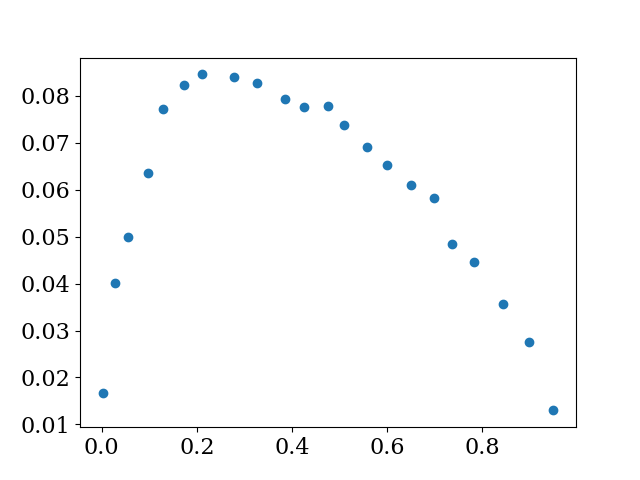
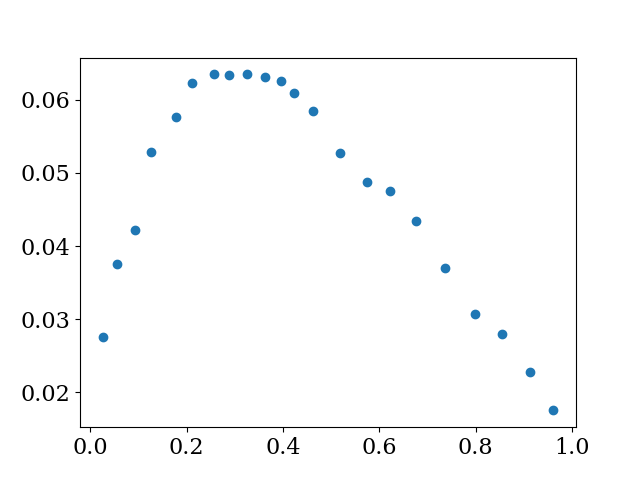
blended wing profiles

diff --git a/main_airfoil.py b/main_airfoil.py
@@ -499,28 +499,35 @@ def plot_airfoil_slope(x, a, y, alpha, x_exp, z_exp):
     return 0
 
 
-def plot_airfoil_slope_experimental(x_exp, z_exp, x_a, alpha, ):
+def plot_airfoil_slope_experimental(x_exp, z_exp, x_a, alpha, x_exp_2, z_exp_2, x_a_2, alpha_2):
     """
-    Generates plot of slope and alpha across an airfoil
+    Generates plot of slope and alpha across an airfoil, two profiles for blended wing
     :param x_exp:
     :param z_exp:
     :param x_a:
     :param alpha:
     :return:
     """
+    blended_wing = True
     # get perfect airfoil points from equation directly
     m1 = float(NACA_number[:1])
     p1 = float(NACA_number[1:2])
     th1 = float(NACA_number[2:4])
     x_values, z_values = get_airfoil_from_NACA_values(m=m1, p=p1, th=th1, c=1)
     z_values = z_values[:1000] # cut z values down to only 1000
+    # Get 0018 airfoil
+    x_values_0018, z_values_0018 = get_airfoil_from_NACA_values(m=0, p=0, th=18, c=1)
+    z_values_0018 = z_values_0018[:1000]  # cut z values down to only 1000
     # Plot to compare to experimental results
     fig, (ax1, ax2, ax3) = plt.subplots(3, 1)
     fig.set_figheight(9)
     fig.set_figwidth(9)
     # FIRST ROW PLOT use data set on angles in /data/
-    ax1.plot(x_values, z_values, '-', c='r', label="NACA{} Airfoil".format(NACA_number))
-    ax1.scatter(x_exp, z_exp, marker="^", s=50, c='b', label="Experimental Result")
+    ax1.plot(x_values, z_values, '-', c='m', label="NACA{} Airfoil".format(NACA_number))
+    ax1.plot(x_values_0018, z_values_0018, '-', c='r', label="NACA{} Airfoil".format("0018"))
+    ax1.scatter(x_exp, z_exp, marker="^", s=50, c='b', label="Experimental NACA2408")
+    if blended_wing:
+        ax1.scatter(x_exp_2, z_exp_2, marker="^", s=50, c='orange', label="Experimental NACA0018")
     # sort the experimental values from smallest x to largest x similar to x, z
     x_exp, z_exp = (list(x) for x in zip(*sorted(zip(x_exp, z_exp))))
     # for each x_exp value, get closest true z_value
@@ -531,22 +538,28 @@ def plot_airfoil_slope_experimental(x_exp, z_exp, x_a, alpha, ):
     print(z_exp)
     print(z_true)
     z_error = [abs(a_i - b_i) for a_i, b_i in zip(z_exp, z_true)]
+    z_error_2 = [abs(a_i - b_i)*15 for a_i, b_i in zip(z_exp_2, z_true)]
+
     # Set first subplot y_label
     ax1.set_ylabel("Height of wing \n (Arbitrary Length)", **csfont)
-    fig.suptitle(r"NACA{} Foil - Experiment and $\alpha$(x) Comparison".format(NACA_number), **csfont)
+    fig.suptitle(r"Blended Body NACA Foil - Experiment and $\alpha$(x) Comparison".format(NACA_number), **csfont)
     # Used to generate dual Y axis plot # ax2 = ax1.twinx()
     # SECOND ROW PLOT error between experiment and real NACA profile
     # z_error is in decimal, so we convert to percentage here:
     z_error = [i*100 for i in z_error]
     # linear leveling
-    ax2.plot(x_exp, z_error, '-', c='m')
+    ax2.plot(x_exp, z_error, '-x', c='m')
+    if blended_wing:
+        ax2.plot(x_exp_2, z_error_2, '-o', c='m')
     # 0 to 2 percent of full length error
     ax2.set_ylim([0,2])
     ax2.set_ylabel("Experimental Error \n (% of Full Length)", **csfont)
-    # THIRD ROW PLOT use data set on angles in /data/
 
-    ax3.scatter(x_alpha, alpha, c='#000000', label=r"$\alpha$ Function")
+    # THIRD ROW PLOT use data set on angles in /data/
+    ax3.scatter(x_a, alpha, marker='o', c='#000000', label=r"$\alpha$ - 0018")
     ax3.set_ylabel('Alpha Function \n (degrees)', **csfont)
+    if blended_wing:
+        ax3.scatter(x_a_2, alpha_2, marker='x', c='#222222', label=r"$\alpha$ - 2408")
     # ax4 = ax3.twinx()
     # alpha_expansion_ratio = alpha
     # ax4.scatter(x_alpha, alpha_expansion_ratio, c='#000000')
@@ -561,9 +574,12 @@ def plot_airfoil_slope_experimental(x_exp, z_exp, x_a, alpha, ):
     ax3.set_ylim((20, 60))
     h1, l1 = ax1.get_legend_handles_labels()
     h2, l2 = ax2.get_legend_handles_labels()
-    ax1.legend(h1 + h2, l1 + l2, loc=2)
+    h3, l3 = ax3.get_legend_handles_labels()
+    ax1.legend(h1 + h2, l1 + l2, loc=1)
+    ax3.legend(h3, l3, loc=1)
 
-    plt.savefig("./figures/NACA{} Airfoil Count {}.png".format(NACA_number, count))
+
+    plt.savefig("./figures/NACA{} Airfoil Experimental Blended Wing {}.png".format(NACA_number, count))
     # plt.show()
     plt.close()
 
@@ -687,20 +703,21 @@ if __name__ == '__main__':
             # pulling angles from data directly, TODO: code in data pull
             x_alpha = list(np.linspace(0, 0.95, 22))
             # angles set manually
-            alpha = [45, 42, 40, 38, 37, 36, 35, 33, 31, 30, 29, 27, 27, 27, 28, 30, 32, 34, 36, 38, 40, 42]  # Degrees
+            alpha_1 = [42, 42, 41, 38, 35, 32, 31, 30, 29, 27, 26, 25, 25, 27, 29, 31, 34, 37, 39, 41, 42, 44]  # Degrees
+            alpha_2 = [45, 42, 39, 38, 37, 35, 34, 33, 32, 31, 30, 30, 31, 32, 34, 35, 37, 38, 40, 42, 44, 45]  # Degrees
 
             if NACA_number == "0018":
                 # x_lists, z_lists, fnames = get_airfoil_mocap_multitest()
-                x_lists, z_lists, fnames = get_airfoil_photo_capture()
-                print(fnames)
-                for count, sample in enumerate(x_lists, 0):
-                    plot_airfoil_slope_experimental(x_exp=x_lists[count], z_exp=z_lists[count], x_a=x_alpha, alpha=alpha)
+                x_lists_0018, z_lists_0018, fnames = get_airfoil_photo_capture()
+                for count, sample in enumerate(x_lists_0018, 0):
+                    plot_airfoil_slope_experimental(x_exp=x_lists_0018[count], z_exp=z_lists_0018[count], x_a=x_alpha, alpha=alpha_1,
+                                                    x_exp_2=x_lists_0018[count], z_exp_2=x_lists_0018[count], x_a_2=x_alpha, alpha_2=alpha_2)
             if NACA_number == "2408":
                 # x_lists, z_lists, fnames = get_airfoil_mocap_multitest()
-                x_lists, z_lists, fnames = get_airfoil_photo_capture()
-                print(fnames)
-                for count, sample in enumerate(x_lists, 0):
-                    plot_airfoil_slope_experimental(x_exp=x_lists[count], z_exp=z_lists[count], x_a=x_alpha, alpha=alpha)
+                x_lists_2408, z_lists_2408, fnames = get_airfoil_photo_capture()
+                for count, sample in enumerate(x_lists_2408, 0):
+                    plot_airfoil_slope_experimental(x_exp=x_lists_0018[0], z_exp=z_lists_0018[0], x_a=x_alpha, alpha=alpha_1,
+                                                    x_exp_2=x_lists_2408[2], z_exp_2=z_lists_2408[2], x_a_2=x_alpha, alpha_2=alpha_2)
 
     # Look at generate NACA profile from model
     generated = False
